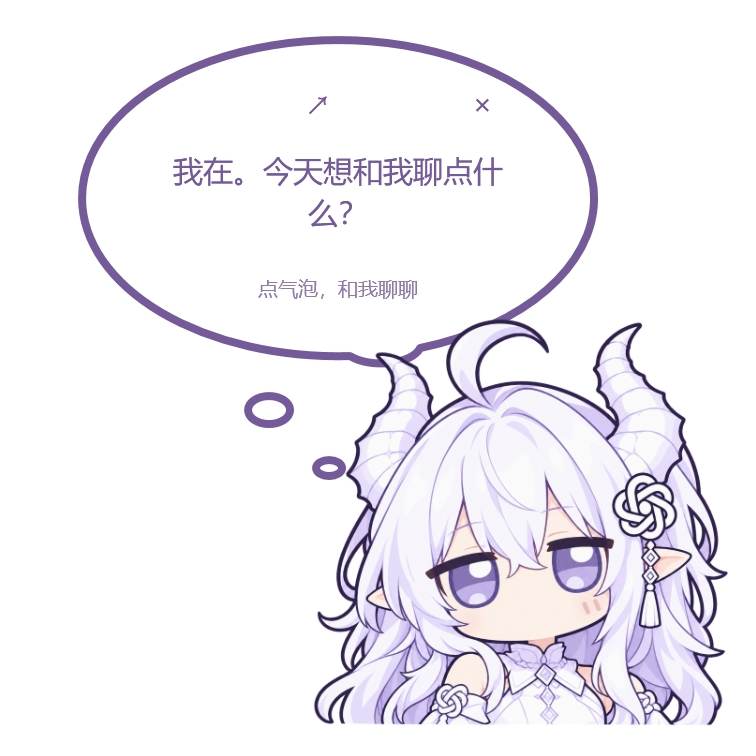
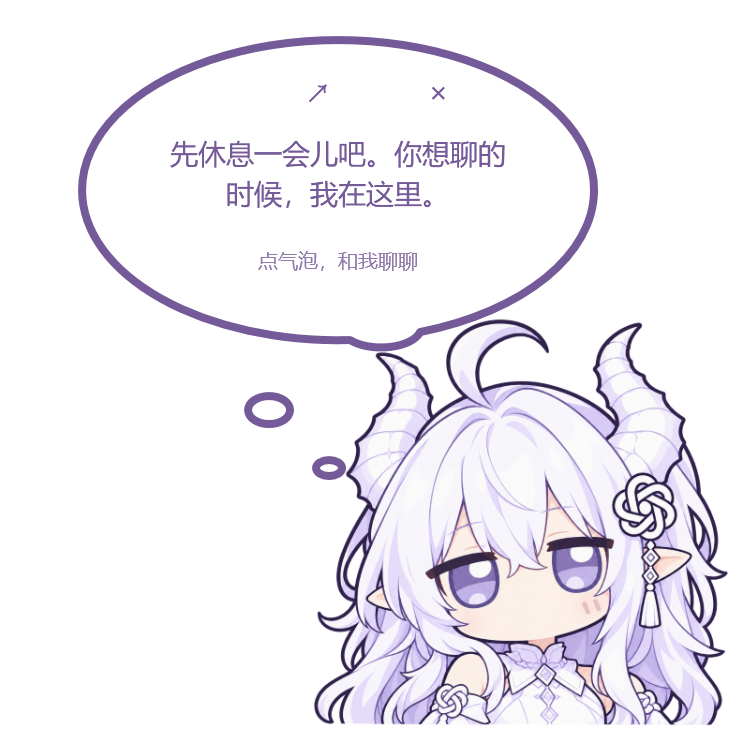
docs: refresh beta.2 README and isolated interface screenshots

diff --git a/assets/readme/README.md b/assets/readme/README.md
@@ -1,18 +1,39 @@
-# README 配图说明 · 2026-10-20
+# README 配图说明 · 2026-10-22
 
-- `pet-reply.png`、`pet-input.png`：使用当前 `widget.xaml` 与 `allmind-quick-chat.cs`，经 WPF RenderTargetBitmap 渲染。不是桌面截屏；回复和输入文字为布局演示文本，没有为截图发起模型调用。形象为随树 GPT-Niang 原素材，适用同目录源码保留的 CHARACTER-NOTICE，来源及许可见根目录 THIRD_PARTY_NOTICES 第 7 节。
-- `wiki-world.jpg`、`wiki-characters.jpg`、`wiki-events.jpg`：2026-10-20 编纂实测时的原始浏览器截图（早于 Endfield UI 更新），展示真实 ChatGPT High 编纂后经校验、确认应用的三个派生页。
-- `wiki-graph.jpg`：同一实例的全屏图谱和节点依据详情；5 节点 / 10 连线，其中 3 条为生成的页间语义关系，其他为来源、依据与页面关联。
-- `wiki-synthesis.jpg`：同一实例已应用任务，显示 High level 2、上传包回执与 3 页 / 3 关系。
+本轮使用当前 beta.2 生产界面重新截取 13 张浏览器图片，并离屏渲染 2 张 WPF 气泡状态图。原始截图均未修图，没有修改页面正文、节点数量、样式或生成结果来制作画面。
 
-Wiki 内容是用户提供的 GPT 龙娘测试素材及模型派生结果，包含明确标注的虚构世界观、社区来源描述和未证实传言，不是官方设定或用户真实经历。测试题与标准答案未发送给编纂模型。这些资料仅展示于截图，不纳入空白安装的初始化数据。
+## 浏览器截图
 
-截图未修改页面正文、节点数量或生成结果，没有 API Key、登录态、账号身份或私人聊天。截图含材料公开来源的文字描述，不表示独立核实了这些外部来源。原始截图和 WPF 预览均未修图。
+使用新的隔离数据目录和默认 GPT 龙娘角色，视口 1440 × 1000。界面导航、草稿审核、确认应用与图谱选中均通过实际产品入口完成。
 
-既有 `screenshot-*.png` 是早期隔离实例配图，本次 README 不再引用；保留文件不表示它们是当前 UI。
+| 文件 | 展示范围 |
+| --- | --- |
+| `ui-chat.jpg` | 明确标注“界面演示回复”的对话、实际场景路线与本地 token 估算 |
+| `ui-role.png` | 角色资料、作者简介与知识入口 |
+| `ui-settings.png` | 场景路由、预算与模型连接入口 |
+| `ui-memory.png` | 知识目录、派生正文与关联入口 |
+| `ui-voice.png` | 本机设备与本地语音设置入口；独立管理服务未连接桌面偏好宿主 |
+| `ui-diagnostics.png` | 本地诊断结果，外部模型检查仍显示 NOT_RUN |
+| `ui-sync.png` | 手动选择同步内容；设备 UUID 是此隔离实例新生成的演示标识 |
+| `ui-tools.png` | 可信程序与权限表配置，未配置或执行外部工具 |
+| `wiki-world.jpg` | 岚栖城的作者设定与反向链接 |
+| `wiki-characters.jpg` | 林澄及其地点、物件、事件关联 |
+| `wiki-events.jpg` | 档案室事件，未提供的动机保留为未知 |
+| `wiki-synthesis.jpg` | 应用前的分类、类型与逐字依据审核，核心人设未勾选 |
+| `wiki-graph.jpg` | 全屏图谱及林澄的节点依据；5 节点、10 连线，其中 5 条为语义关系 |
 
-## Endfield UI 更新配图
+聊天与 Wiki 的模型输出均来自受控 fixture，未调用真实模型服务；fixture 分别返回一条演示回复和一份带逐字依据的结构化草稿。草稿经过生产校验与界面确认应用，页面没有替换为静态样稿。这组图片展示产品流程，不用于证明真实模型的推理、抽取质量或 ChatGPT High 核实能力。
 
-- `ui-chat.jpg`：本轮更新后运行实例的原始截图，显示此前实际 ChatGPT 登录恢复验收的测试消息与回复；本轮 UI 验收没有重新调用模型。
-- `ui-role.png`、`ui-settings.png`、`ui-memory.png`：隔离空白实例的浏览器原始截图，默认合成角色 ALLMIND，无真实 Key、账号或用户资料。用于展示新用户可见的角色、模型配置、知识库入口。
-- 原始图均未修图。旧 Wiki 图保留为真实编纂与来源核验记录，正文已明确其早于新版样式。
+Wiki 材料为专门编写的虚构作者设定：林澄、岚栖城、银钥匙与档案室事件，以及一条表达方式。没有真实 Key、账号身份、登录态、私人聊天、真实设备标识或私人路径。模型名 `demo-local-fixture` 和本机回环地址仅为演示配置。这些资料、配置和会话不随空白包初始化导入。
+
+## 桌宠气泡预览
+
+`pet-reply.png`、`pet-input.png` 使用当前 `widget.xaml` 与 `allmind-quick-chat.cs`，经 WPF RenderTargetBitmap 以 2 倍分辨率渲染为 756 × 756 图片。未显示或激活原生窗口，输入态由程序设置；不是桌面实机截屏，不证明鼠标、键盘或中文输入法验收通过。文字为布局演示，没有模型调用。
+
+形象为随树 GPT-Niang 原素材，适用 [CHARACTER-NOTICE](../../windows/code/desktop-pet/desktop/wpf/shell/assets/CHARACTER-NOTICE.txt)。来源及许可见根目录 [THIRD_PARTY_NOTICES](../../THIRD_PARTY_NOTICES.md) 第 7 节。
+
+## 历史记录
+
+原 Wiki 和聊天配图已替换为本轮图片。历史真实模型验收仍以 `validation/` 中带日期、来源和限制的记录为准，不把新图片当作真实服务复测结果。
+
+既有 `screenshot-*.png` 为早期隔离实例配图，本次 README 不再引用；保留文件不表示它们是当前 UI。
